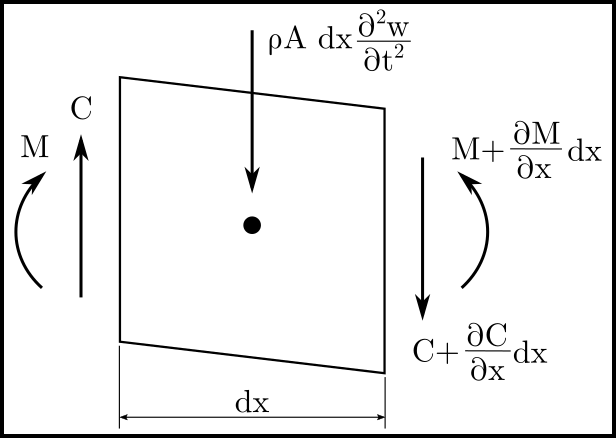
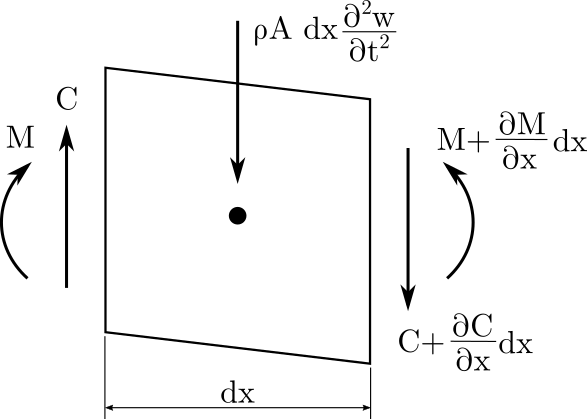
Editado o comando de inclusão de imagens para criar a borda automaticamente. Removidas as bordas das imagens. Corrigida a citação de ano nas figuras já inseridas.

diff --git a/Relatório/Relatorio_HenriqueBaron.tex b/Relatório/Relatorio_HenriqueBaron.tex
@@ -305,7 +305,7 @@
 	\subsection{Equação de movimento} \label{desenv:cont:eqn-geral}
 	A equação geral de movimento de um sistema contínuo pode ser deduzida a partir da vibração vertical de uma corda sob tensão. Esteja uma corda com uma massa por unidade de comprimento equivalente a \gls{s:massa-espec}, sujeita a uma força transversal \gls{s:forca} que é função do tempo \gls{s:tempo} e da coordenada $x$, como mostra o lado esquerdo da Figura \ref{fig:vibracao-corda}. O lado direito da figura mostra em detalhe o intervalo infinitesimal $dx$ entre os pontos $x_1$ e $x_2$. Nele também são esquematizados o deslocamento \gls{s:desloc-vertical} na direção $z$, a força de tração \gls{s:tensao-corda}, o ângulo de inclinação da corda em relação ao eixo $x$ denotado por \gls{s:angulo-tensao} e, por fim, a força \gls{s:forca}$(x,t)$ atuante sobre o segmento infinitesimal de comprimento $ds$ da corda.
 	\begin{figure}[t] 
-	\incluirimagem{VibracaoCorda.png}{Vibração de uma corda tensionada}{adaptado de \citeauthoronline{rao:2008} \citeyear{rao:2008}} \label{fig:vibracao-corda}
+	\incluirimagem{VibracaoCorda.png}{Vibração de uma corda tensionada}{adaptado de \citeauthoronline{rao:2008} (\citeyear{rao:2008})} \label{fig:vibracao-corda}
 	\end{figure}
 
 	Neste modelo, desconsidera-se a ação da atmosfera e da gravidade sobre a corda, além de supor-se que não existem perdas de energia na sua vibração. Também define-se a corda vibrante como tendo uma seção transversal pequena em comparação com seu comprimento, de maneira que as tensões ao longo da área da seção variem pouco e se tornem puramente axiais, desprezando assim tensões de flexão e cisalhamento \cite{clark:1972}.
@@ -331,7 +331,7 @@
 		\mathit{c} = \sqrt{\frac{EI}{\rho A}}
 	\end{equation}		
 	\begin{figure}[b]
-		\incluirimagem{ElementoViga.png}{Elemento de viga em flexão}{adaptado de \citeauthoronline{timoshenko:1974} \citeyear{timoshenko:1974}}
+		\incluirimagem{ElementoViga.png}{Elemento de viga em flexão}{adaptado de \citeauthoronline{timoshenko:1974} (\citeyear{timoshenko:1974})}
 		\label{fig:elemento-viga}
 	\end{figure}
 
